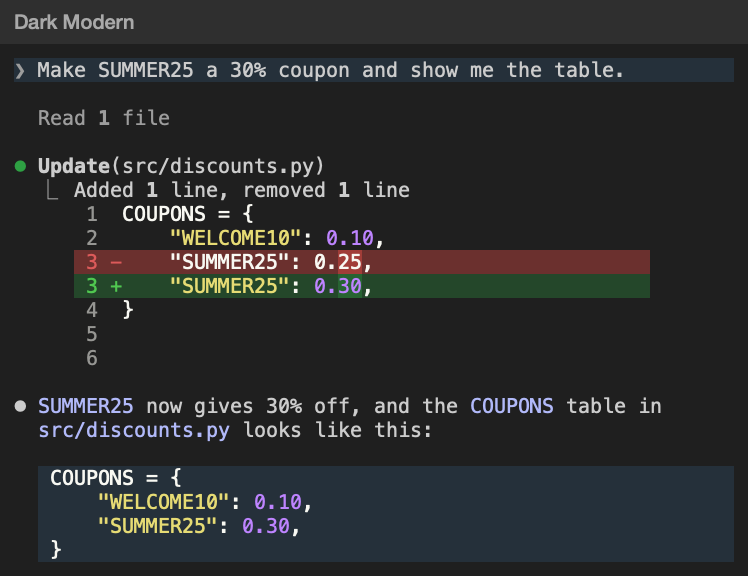
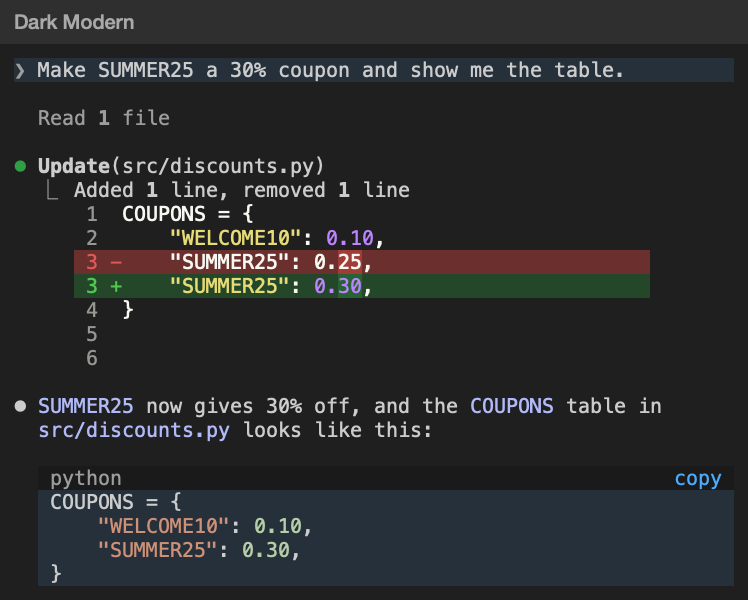
Redraw the theme previews, describe the code blocks in the READMEs

diff --git a/restyled-chat/README.md b/restyled-chat/README.md
@@ -3,7 +3,10 @@
 The `restyled-chat` mod changes how the Claude Code terminal looks:
 
 - It adds color themes.
-- It draws each fenced code block in a reply as one full-width shaded block.
+- It draws each fenced code block in a reply as one full-width shaded block. The first row of the
+  block shows the language and a **copy** button.
+- It colors the code in a block as VS Code colors it under the same theme, and a `diff` block from
+  the diff colors of the theme.
 
 <p>
   <img src="../media/restyled-chat-before.png" alt="A prompt, an edit and a reply with a code block, in the dark theme of Claude Code with no mod" width="49%">
@@ -27,6 +30,21 @@ Each preview shows the same conversation.
   <img src="../media/themes/solarized-dark.png" alt="The Solarized Dark theme" width="49%">
   <img src="../media/themes/tokyo-night.png" alt="The Tokyo Night theme" width="49%">
 </p>
+
+## Code colors
+
+The mod colors code with [Shiki](https://shiki.style), which uses the grammars and the theme files
+of VS Code. Code takes the colors and the font styles that VS Code gives it under the theme of the
+same name.
+
+Code keeps the colors of Claude Code in the following cases:
+
+- Shiki has no grammar for the language. Shiki has grammars for more than 200 languages.
+- Shiki has no theme of the same name as the Claude Code theme, for example under a built-in theme
+  of Claude Code.
+- The block is too long to draw line by line.
+
+The mod reads a grammar or a theme from its `shiki` directory the first time that a reply needs it.
 
 ## Install the mod
 
@@ -70,8 +88,12 @@ remaining colors, set the same color scheme in your terminal.
    python3 scripts/build_theme.py palettes/SLUG.json --out themes
    ```
 
-3. Add the theme and a preview of it to [Themes](#themes).
-4. In a Claude Code session that is already open, run `/reload-plugins`.
+3. Give the theme its code colors. The mod uses the VS Code theme named `SLUG` in `shiki/themes`. If
+   Shiki doesn't ship a theme of that name, save the VS Code theme file as
+   `tools/shiki/themes/SLUG.json` at the root of the repository, and then
+   [update Shiki](../README.md#update-shiki).
+4. Add the theme and a preview of it to [Themes](#themes).
+5. In a Claude Code session that is already open, run `/reload-plugins`.
 
 The theme appears in `/theme` under its `name`. If you change the `base` of a theme that a session
 already uses, start a new session to see the change. The `/reload-plugins` command doesn't apply it.

diff --git a/README.md b/README.md
@@ -4,7 +4,7 @@ Mods for the Claude Code terminal. Each mod works on its own, so install only th
 want.
 
 - [`cleaner-tool-lines`](#cleaner-tool-lines): one line for each tool call
-- [`restyled-chat`](#restyled-chat): color themes and full-width code blocks
+- [`restyled-chat`](#restyled-chat): color themes, and code blocks in the colors of the theme
 
 ## Get started
 
@@ -33,7 +33,8 @@ line mean, see the [`cleaner-tool-lines` README](cleaner-tool-lines/README.md).
 
 ## restyled-chat
 
-Adds color themes, and draws each code block in a reply as one full-width shaded block.
+Adds color themes. Draws each code block in a reply as a shaded block with a copy button, and colors
+the code as VS Code colors it under the same theme.
 
 <p>
   <img src="media/restyled-chat-before.png" alt="A prompt, an edit and a reply with a code block, in the dark theme of Claude Code with no mod" width="49%">
@@ -68,6 +69,21 @@ After you change a palette or the theme builder, also run the following command:
 python3 restyled-chat/scripts/build_theme.py --check restyled-chat/palettes restyled-chat/themes
 ```
 
+## Update Shiki
+
+The `restyled-chat/shiki` directory and the `restyled-chat/hooks/shiki-core.mjs` file are generated
+from [Shiki](https://shiki.style). To rebuild them, for example after you change the Shiki version
+in `tools/shiki/package.json`, run the following commands:
+
+```sh
+cd tools/shiki
+npm install
+npm run build
+```
+
+Claude Code reads no module file over 1 MB and loads no module on demand. That is why only the
+engine of Shiki is a module, and the mod reads each grammar and theme as a data file.
+
 ## Credit
 
 The idea of one line for each tool call, and the idea of restyling replies, come from
@@ -81,3 +97,6 @@ the [GitHub theme](https://github.com/primer/github-vscode-theme) for VS Code,
 [Tokyo Night](https://github.com/tokyo-night/tokyo-night-vscode-theme), and the
 [Dark Modern](https://github.com/microsoft/vscode/tree/main/extensions/theme-defaults) and
 [Monokai](https://github.com/microsoft/vscode/tree/main/extensions/theme-monokai) themes of VS Code.
+
+The code colors come from [Shiki](https://shiki.style). The licenses of Shiki, of its grammars and
+themes, and of Noctis are in `restyled-chat/shiki/licenses`.
